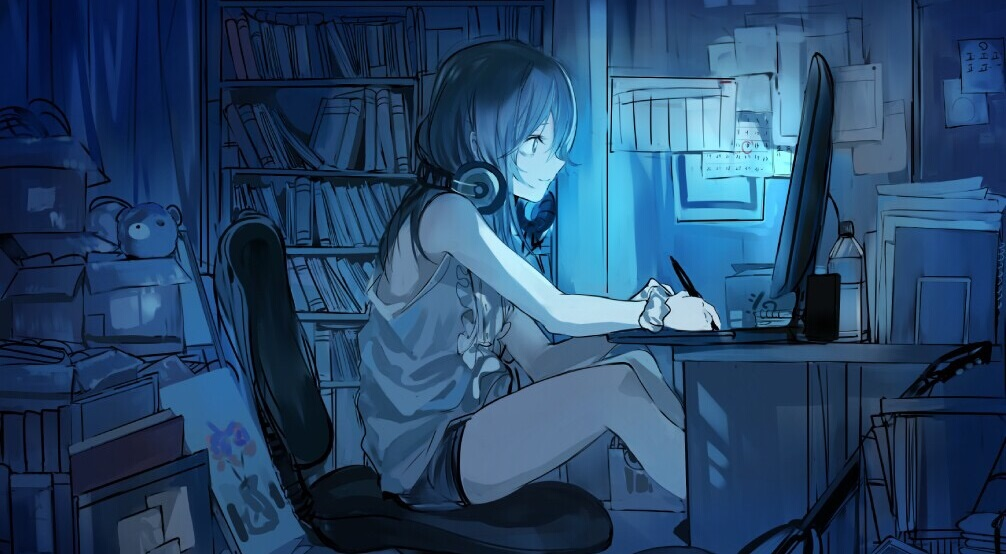
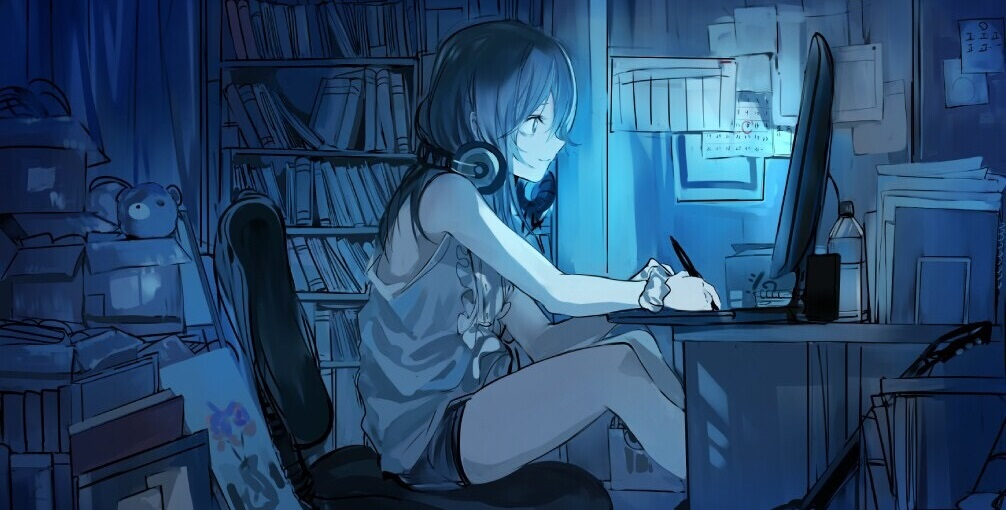
1

diff --git a/tags.html b/tags.html
@@ -2,7 +2,7 @@
 title: Tags
 layout: default
 description: keep hungry keep foolish
-header-img: "img/tag-bg.jpg"
+header-img: "img/Girl-Night.JPG"
 ---
 
 <!-- Page Header -->
